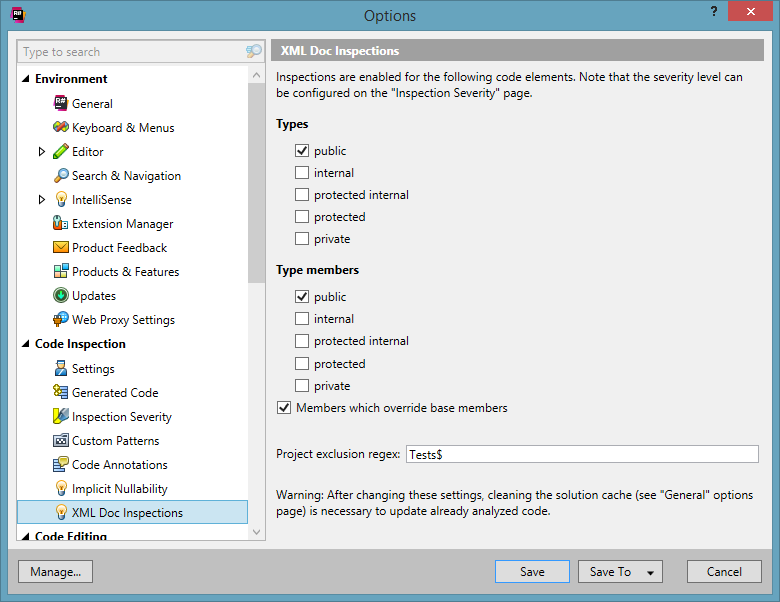
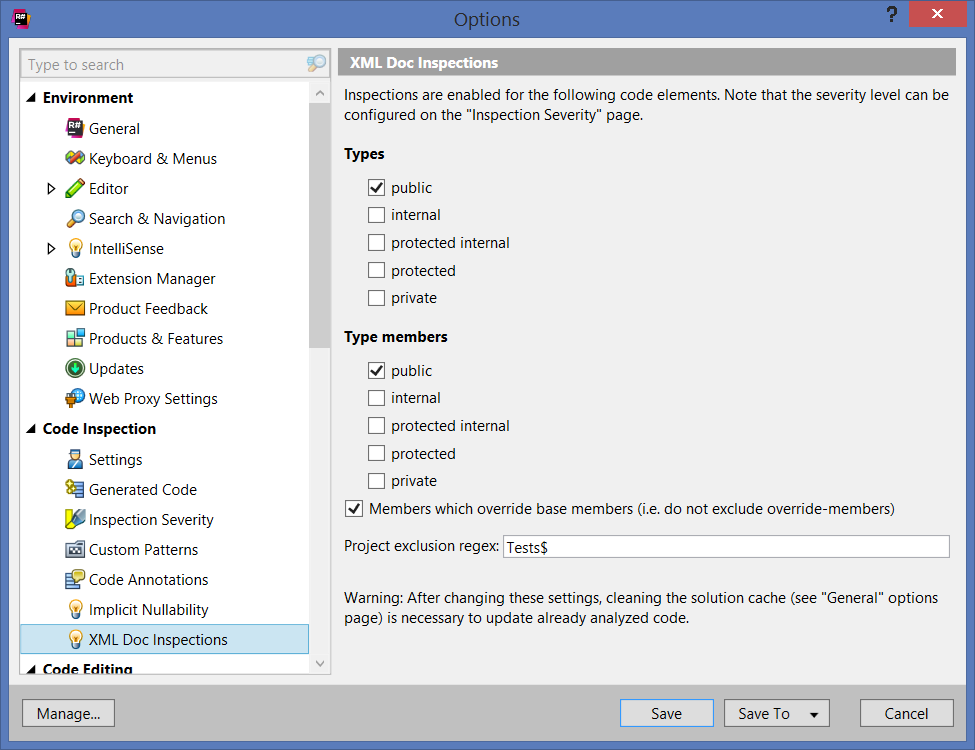
Improve options page (docs)

Changed region(s): [[0.0, 0.0, 1.0, 1.0]]

diff --git a/Src/XmlDocInspections.Plugin/Settings/XmlDocInspectionsSettings.cs b/Src/XmlDocInspections.Plugin/Settings/XmlDocInspectionsSettings.cs
@@ -12,16 +12,16 @@ namespace XmlDocInspections.Plugin.Settings
         private const AccessibilitySettingFlags DefaultAccessibilityFlags =
             AccessibilitySettingFlags.Public | AccessibilitySettingFlags.Protected | AccessibilitySettingFlags.ProtectedOrInternal;
 
-        [SettingsEntry("Tests$", "ProjectExclusionRegex")]
+        [SettingsEntry("Tests$", "Project exclusion regex")]
         public string ProjectExclusionRegex;
 
-        [SettingsEntry(DefaultAccessibilityFlags, "TypeAccessibility")]
+        [SettingsEntry(DefaultAccessibilityFlags, "Type accessibility")]
         public AccessibilitySettingFlags TypeAccessibility;
 
-        [SettingsEntry(DefaultAccessibilityFlags, "TypeMemberAccessibility")]
+        [SettingsEntry(DefaultAccessibilityFlags, "Type member accessibility")]
         public AccessibilitySettingFlags TypeMemberAccessibility;
 
-        [SettingsEntry(true, "RequireDocsOnOverridingMember")]
+        [SettingsEntry(true, "Require XML Docs on overriding members")]
         public bool RequireDocsOnOverridingMember;
     }
 }

diff --git a/Src/XmlDocInspections.Plugin/Settings/XmlDocInspectionsOptionsPage.cs b/Src/XmlDocInspections.Plugin/Settings/XmlDocInspectionsOptionsPage.cs
@@ -41,7 +41,7 @@ namespace XmlDocInspections.Plugin.Settings
 
             AddBoolOption(
                 (XmlDocInspectionsSettings s) => s.RequireDocsOnOverridingMember,
-                "Members which override base members");
+                "Members which override base members (i.e. do not exclude override-members)");
 
             AddText("");
 

diff --git a/README.md b/README.md
@@ -13,4 +13,4 @@
 
 A simple ReSharper extension which enables to show warnings for missing XML Doc comments for types and type members. In contrast to the C# compiler's [CS1591 warning](https://msdn.microsoft.com/en-us/library/zk18c1w9.aspx) which emits a warning for all public or protected types and members, this extension provides configuration options (see the following screen shot).
 
-![](Doc/OptionsPage.png)
+<img src="/Doc/OptionsPage.png" alt="Options Page" width="780" />
